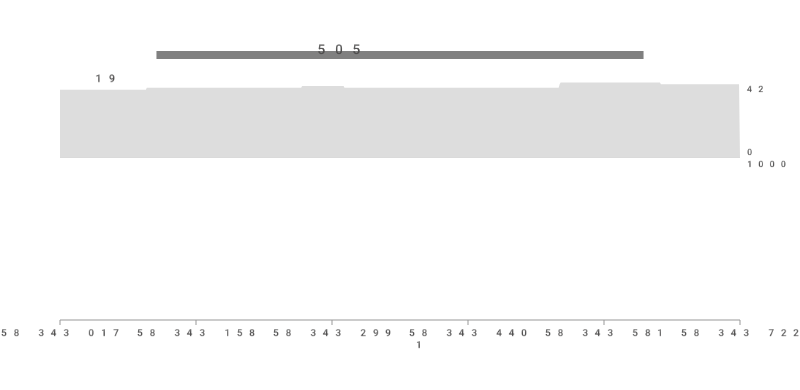
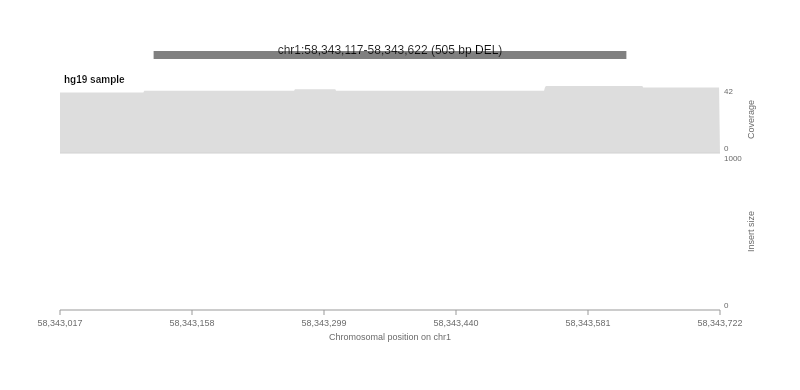
Fix font rendering and improve labels to match samplot style
- Change fontFamily from 'Arial, Helvetica, sans-serif' to
  'Liberation Sans, DejaVu Sans, sans-serif' to fix broken text
  rendering in @napi-rs/canvas (characters were rendered with extreme
  spacing because Arial is unavailable)
- Add descriptive variant bar title: "chr4:115,928,726-115,931,880 (3.15 kb DEL)"
- Add rotated "Coverage" and "Insert size" Y-axis labels matching samplot
- Add "Chromosomal position on chrX" X-axis label matching samplot
- Add '0' baseline labels to both Y-axes
- Increase right padding to accommodate axis labels
- Increase bottom padding for x-axis label
- Adjust font sizes to better match samplot conventions

diff --git a/svplot-js/src/renderer.js b/svplot-js/src/renderer.js
@@ -187,9 +187,10 @@ export class Renderer {
       ctx.restore();
     }
 
-    // Draw SV title
+    // Draw SV title above the variant bar, matching samplot style
     const svSize = Math.abs(svEnd - svStart);
-    const svTitle = `${formatSize(svSize)} ${svType.toLowerCase()}`;
+    const chromLabel = chrom.startsWith('chr') ? chrom : 'chr' + chrom;
+    const svTitle = `${chromLabel}:${formatPosition(svStart)}-${formatPosition(svEnd)} (${formatSize(svSize)} ${svType})`;
     ctx.save();
     ctx.fillStyle = '#000000';
     ctx.font = `${this.options.titleFontSize}px ${this.options.fontFamily}`;
@@ -215,18 +216,18 @@ export class Renderer {
     drawBorder,
   ) {
     const ctx = this.ctx;
-    const coverageH = h * 0.3;
-    const readsH = h * 0.65;
-    const labelH = h * 0.05;
+    const labelH = 16;
+    const coverageH = (h - labelH) * 0.3;
+    const readsH = (h - labelH) * 0.7;
     const coverageY = y + labelH;
     const readsY = coverageY + coverageH;
 
-    // Draw sample label
+    // Draw sample label (samplot: fontsize=8, loc="left")
     ctx.save();
     ctx.fillStyle = '#000000';
     ctx.font = `bold ${this.options.labelFontSize}px ${this.options.fontFamily}`;
     ctx.textAlign = 'left';
-    ctx.fillText(label, x + 4, y + labelH);
+    ctx.fillText(label, x + 4, y + labelH - 3);
     ctx.restore();
 
     // Draw coverage
@@ -235,10 +236,10 @@ export class Renderer {
     // Draw reads
     this._drawReads(x, readsY, w, readsH, sampleData, ranges, maxInsertSize);
 
-    // Draw coverage Y-axis label
+    // Draw coverage Y-axis with "Coverage" label (matching samplot)
     this._drawCoverageAxis(x + w, coverageY, coverageH, maxCoverage);
 
-    // Draw insert size Y-axis label
+    // Draw insert size Y-axis with "Insert size" label (matching samplot)
     this._drawInsertAxis(x + w, readsY, readsH, maxInsertSize);
 
     // Draw panel border
@@ -445,7 +446,7 @@ export class Renderer {
     ctx.lineTo(x + w, y);
     ctx.stroke();
 
-    // Draw ticks
+    // Draw ticks (samplot uses matplotlib default ~6 ticks)
     const numTicks = 5;
     for (let i = 0; i <= numTicks; i++) {
       const frac = i / numTicks;
@@ -462,12 +463,12 @@ export class Renderer {
       ctx.fillText(formatPosition(genomePos), px, y + 16);
     }
 
-    // Chromosome label
-    ctx.font = `bold ${this.options.tickFontSize}px ${this.options.fontFamily}`;
+    // Chromosome label (samplot: "Chromosomal position on chrX", fontsize=8)
     const chromLabel = range.chrom.startsWith('chr')
       ? range.chrom
       : 'chr' + range.chrom;
-    ctx.fillText(chromLabel, x + w / 2, y + 28);
+    ctx.font = `${this.options.tickFontSize}px ${this.options.fontFamily}`;
+    ctx.fillText(`Chromosomal position on ${chromLabel}`, x + w / 2, y + 30);
 
     ctx.restore();
   }
@@ -478,13 +479,24 @@ export class Renderer {
    */
   _drawCoverageAxis(x, y, h, maxCoverage) {
     const ctx = this.ctx;
+    const tickFont = this.options.tickFontSize - 1;
     ctx.save();
-    ctx.fillStyle = '#999999';
-    ctx.font = `${this.options.tickFontSize - 1}px ${this.options.fontFamily}`;
+    ctx.fillStyle = '#666666';
+    ctx.font = `${tickFont}px ${this.options.fontFamily}`;
     ctx.textAlign = 'left';
 
-    ctx.fillText(Math.round(maxCoverage).toString(), x + 4, y + 10);
+    // Max and min tick values
+    ctx.fillText(Math.round(maxCoverage).toString(), x + 4, y + tickFont);
     ctx.fillText('0', x + 4, y + h - 2);
+
+    // Rotated "Coverage" label (matching samplot set_ylabel)
+    ctx.save();
+    ctx.translate(x + 4 + 30, y + h / 2);
+    ctx.rotate(-Math.PI / 2);
+    ctx.textAlign = 'center';
+    ctx.font = `${tickFont + 1}px ${this.options.fontFamily}`;
+    ctx.fillText('Coverage', 0, 0);
+    ctx.restore();
 
     ctx.restore();
   }
@@ -495,15 +507,26 @@ export class Renderer {
    */
   _drawInsertAxis(x, y, h, maxInsertSize) {
     const ctx = this.ctx;
+    const tickFont = this.options.tickFontSize - 1;
     ctx.save();
-    ctx.fillStyle = '#999999';
-    ctx.font = `${this.options.tickFontSize - 1}px ${this.options.fontFamily}`;
+    ctx.fillStyle = '#666666';
+    ctx.font = `${tickFont}px ${this.options.fontFamily}`;
     ctx.textAlign = 'left';
 
     const label = maxInsertSize > 1000
       ? `${(maxInsertSize / 1000).toFixed(1)}k`
       : maxInsertSize.toString();
-    ctx.fillText(label, x + 4, y + 10);
+    ctx.fillText(label, x + 4, y + tickFont);
+    ctx.fillText('0', x + 4, y + h - 2);
+
+    // Rotated "Insert size" label (matching samplot set_ylabel)
+    ctx.save();
+    ctx.translate(x + 4 + 30, y + h / 2);
+    ctx.rotate(-Math.PI / 2);
+    ctx.textAlign = 'center';
+    ctx.font = `${tickFont + 1}px ${this.options.fontFamily}`;
+    ctx.fillText('Insert size', 0, 0);
+    ctx.restore();
 
     ctx.restore();
   }

diff --git a/svplot-js/src/constants.js b/svplot-js/src/constants.js
@@ -40,16 +40,16 @@ export const DEFAULTS = {
   markerSize: 3,
   coverageTrackType: 'stack',
   dpi: 1, // device pixel ratio multiplier
-  padding: { top: 40, right: 60, bottom: 30, left: 60 },
+  padding: { top: 40, right: 80, bottom: 40, left: 60 },
   sampleHeight: 250,
   variantBarHeight: 30,
   legendHeight: 40,
   backgroundColor: '#ffffff',
   axisColor: '#999999',
-  fontFamily: 'Arial, Helvetica, sans-serif',
-  titleFontSize: 14,
-  labelFontSize: 11,
-  tickFontSize: 10,
+  fontFamily: 'Liberation Sans, DejaVu Sans, sans-serif',
+  titleFontSize: 12,
+  labelFontSize: 10,
+  tickFontSize: 9,
   maxCoveragePoints: 1000,
   window: 0.15,
 };
